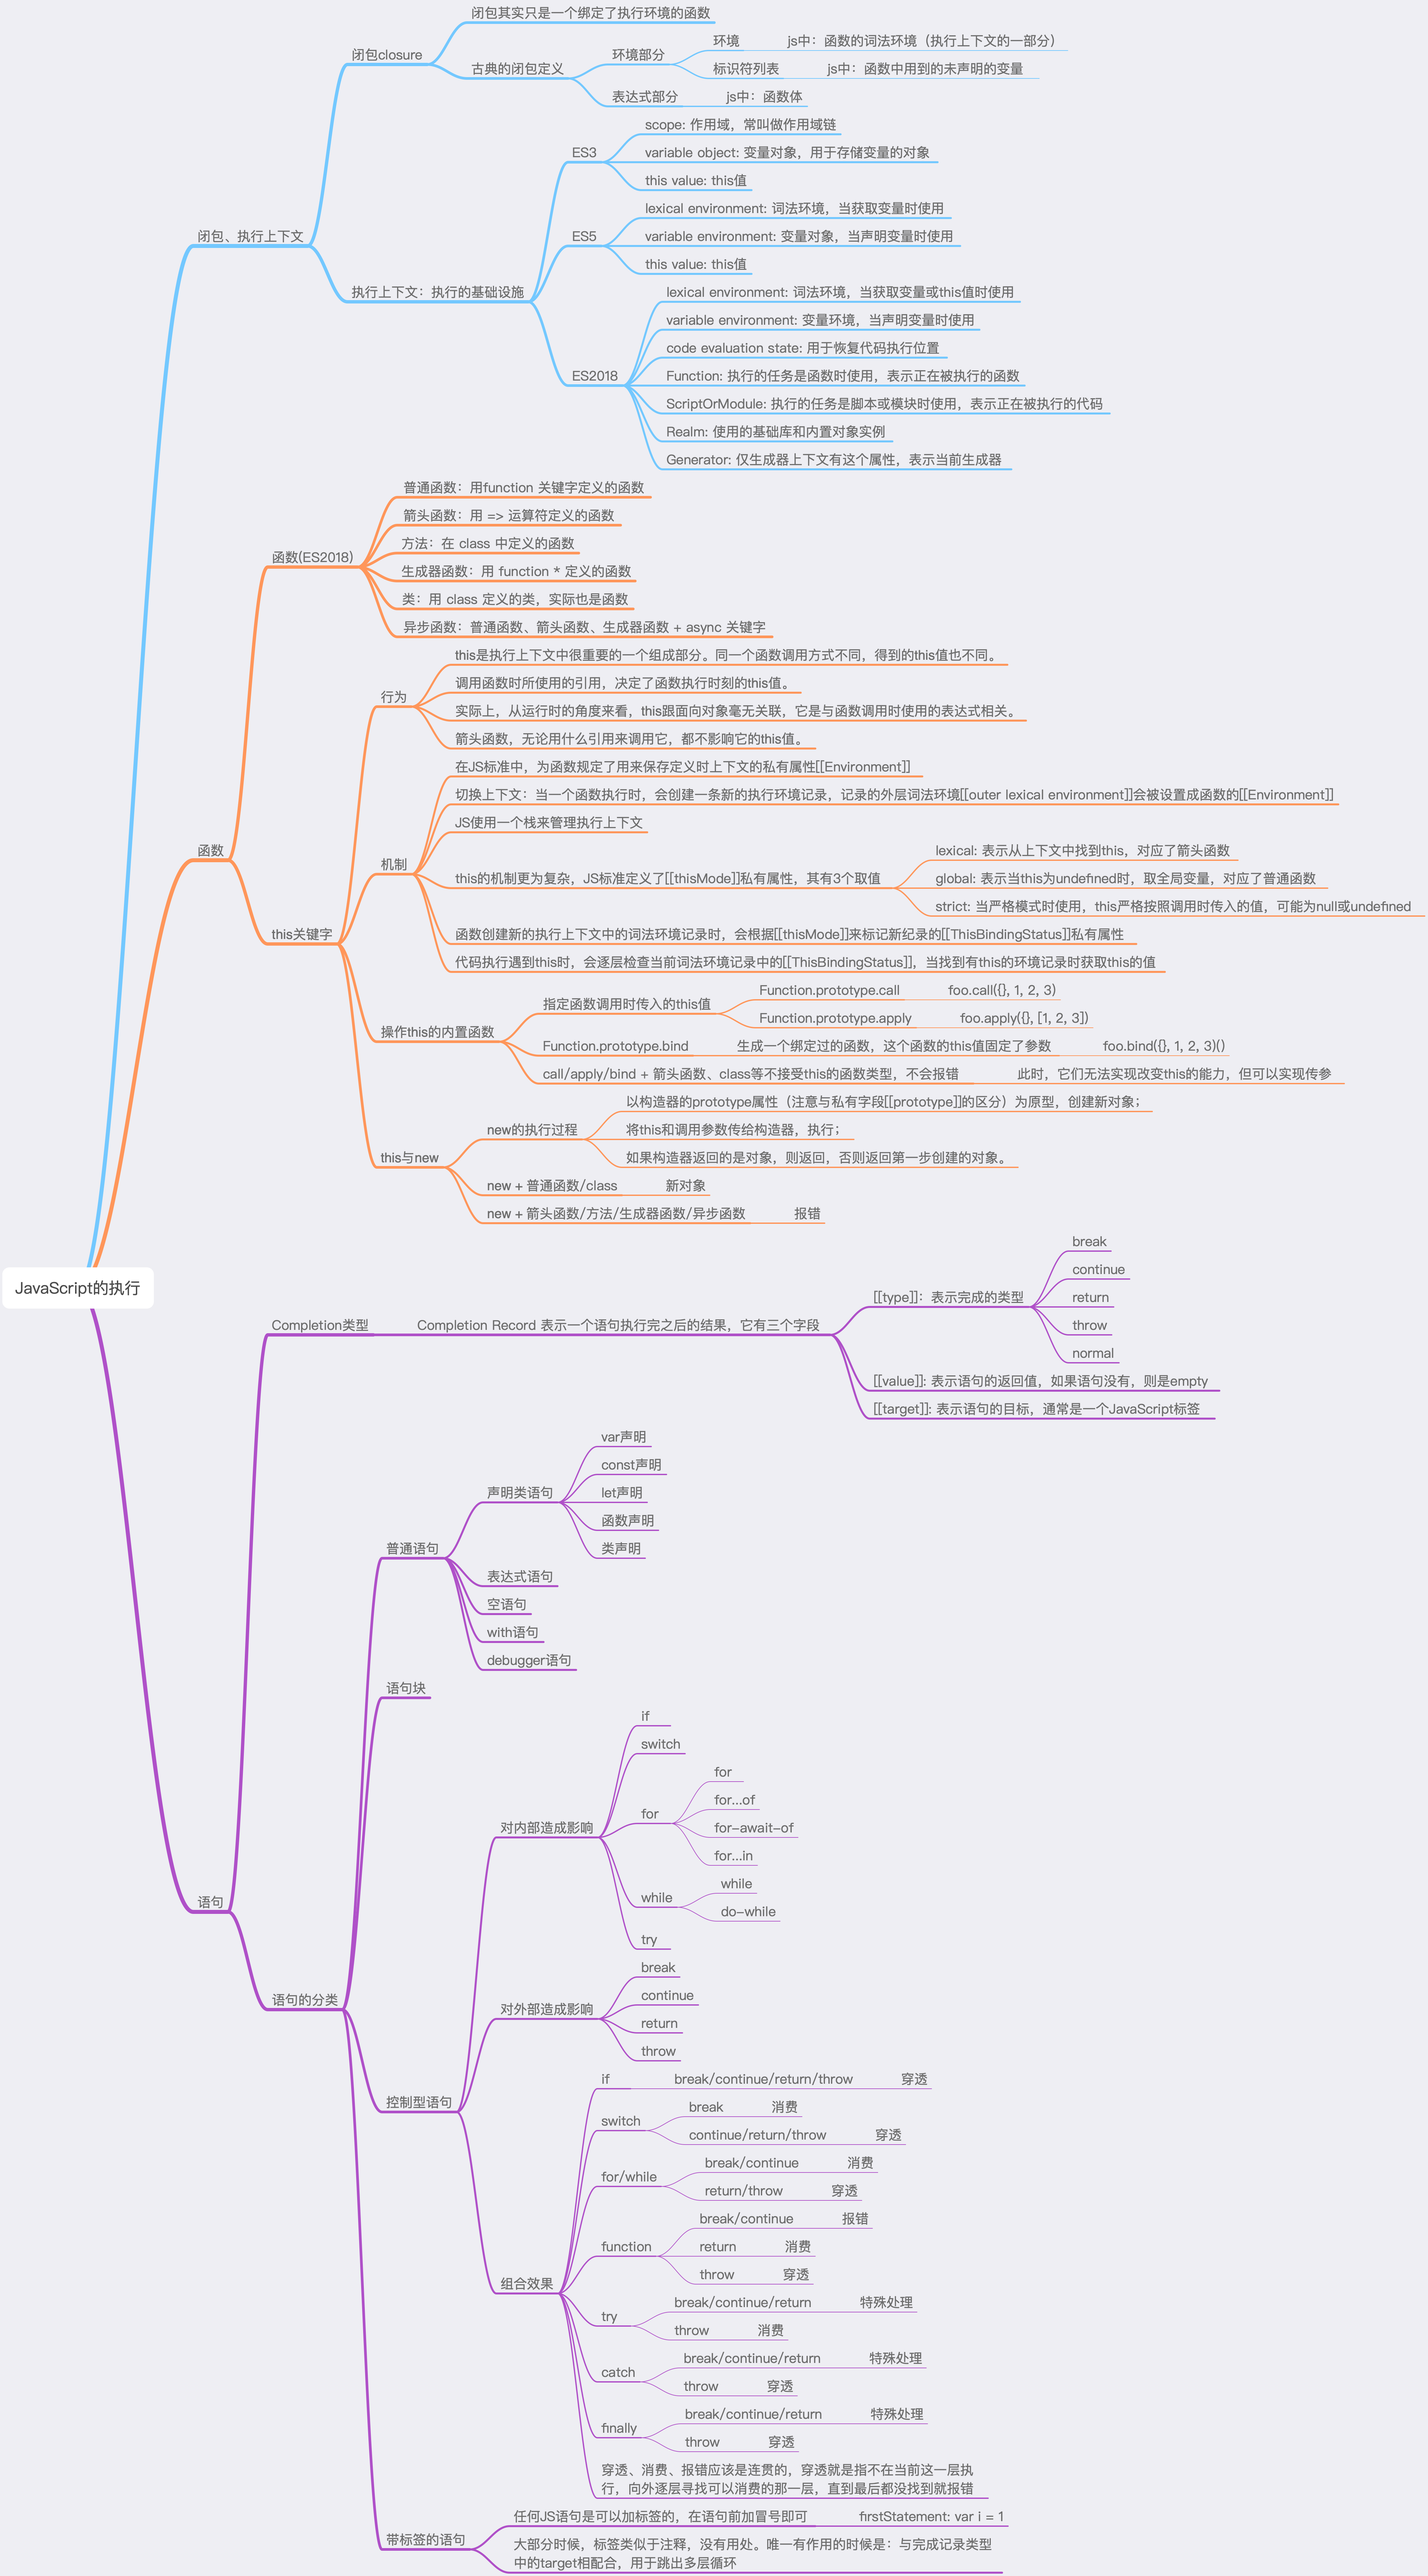
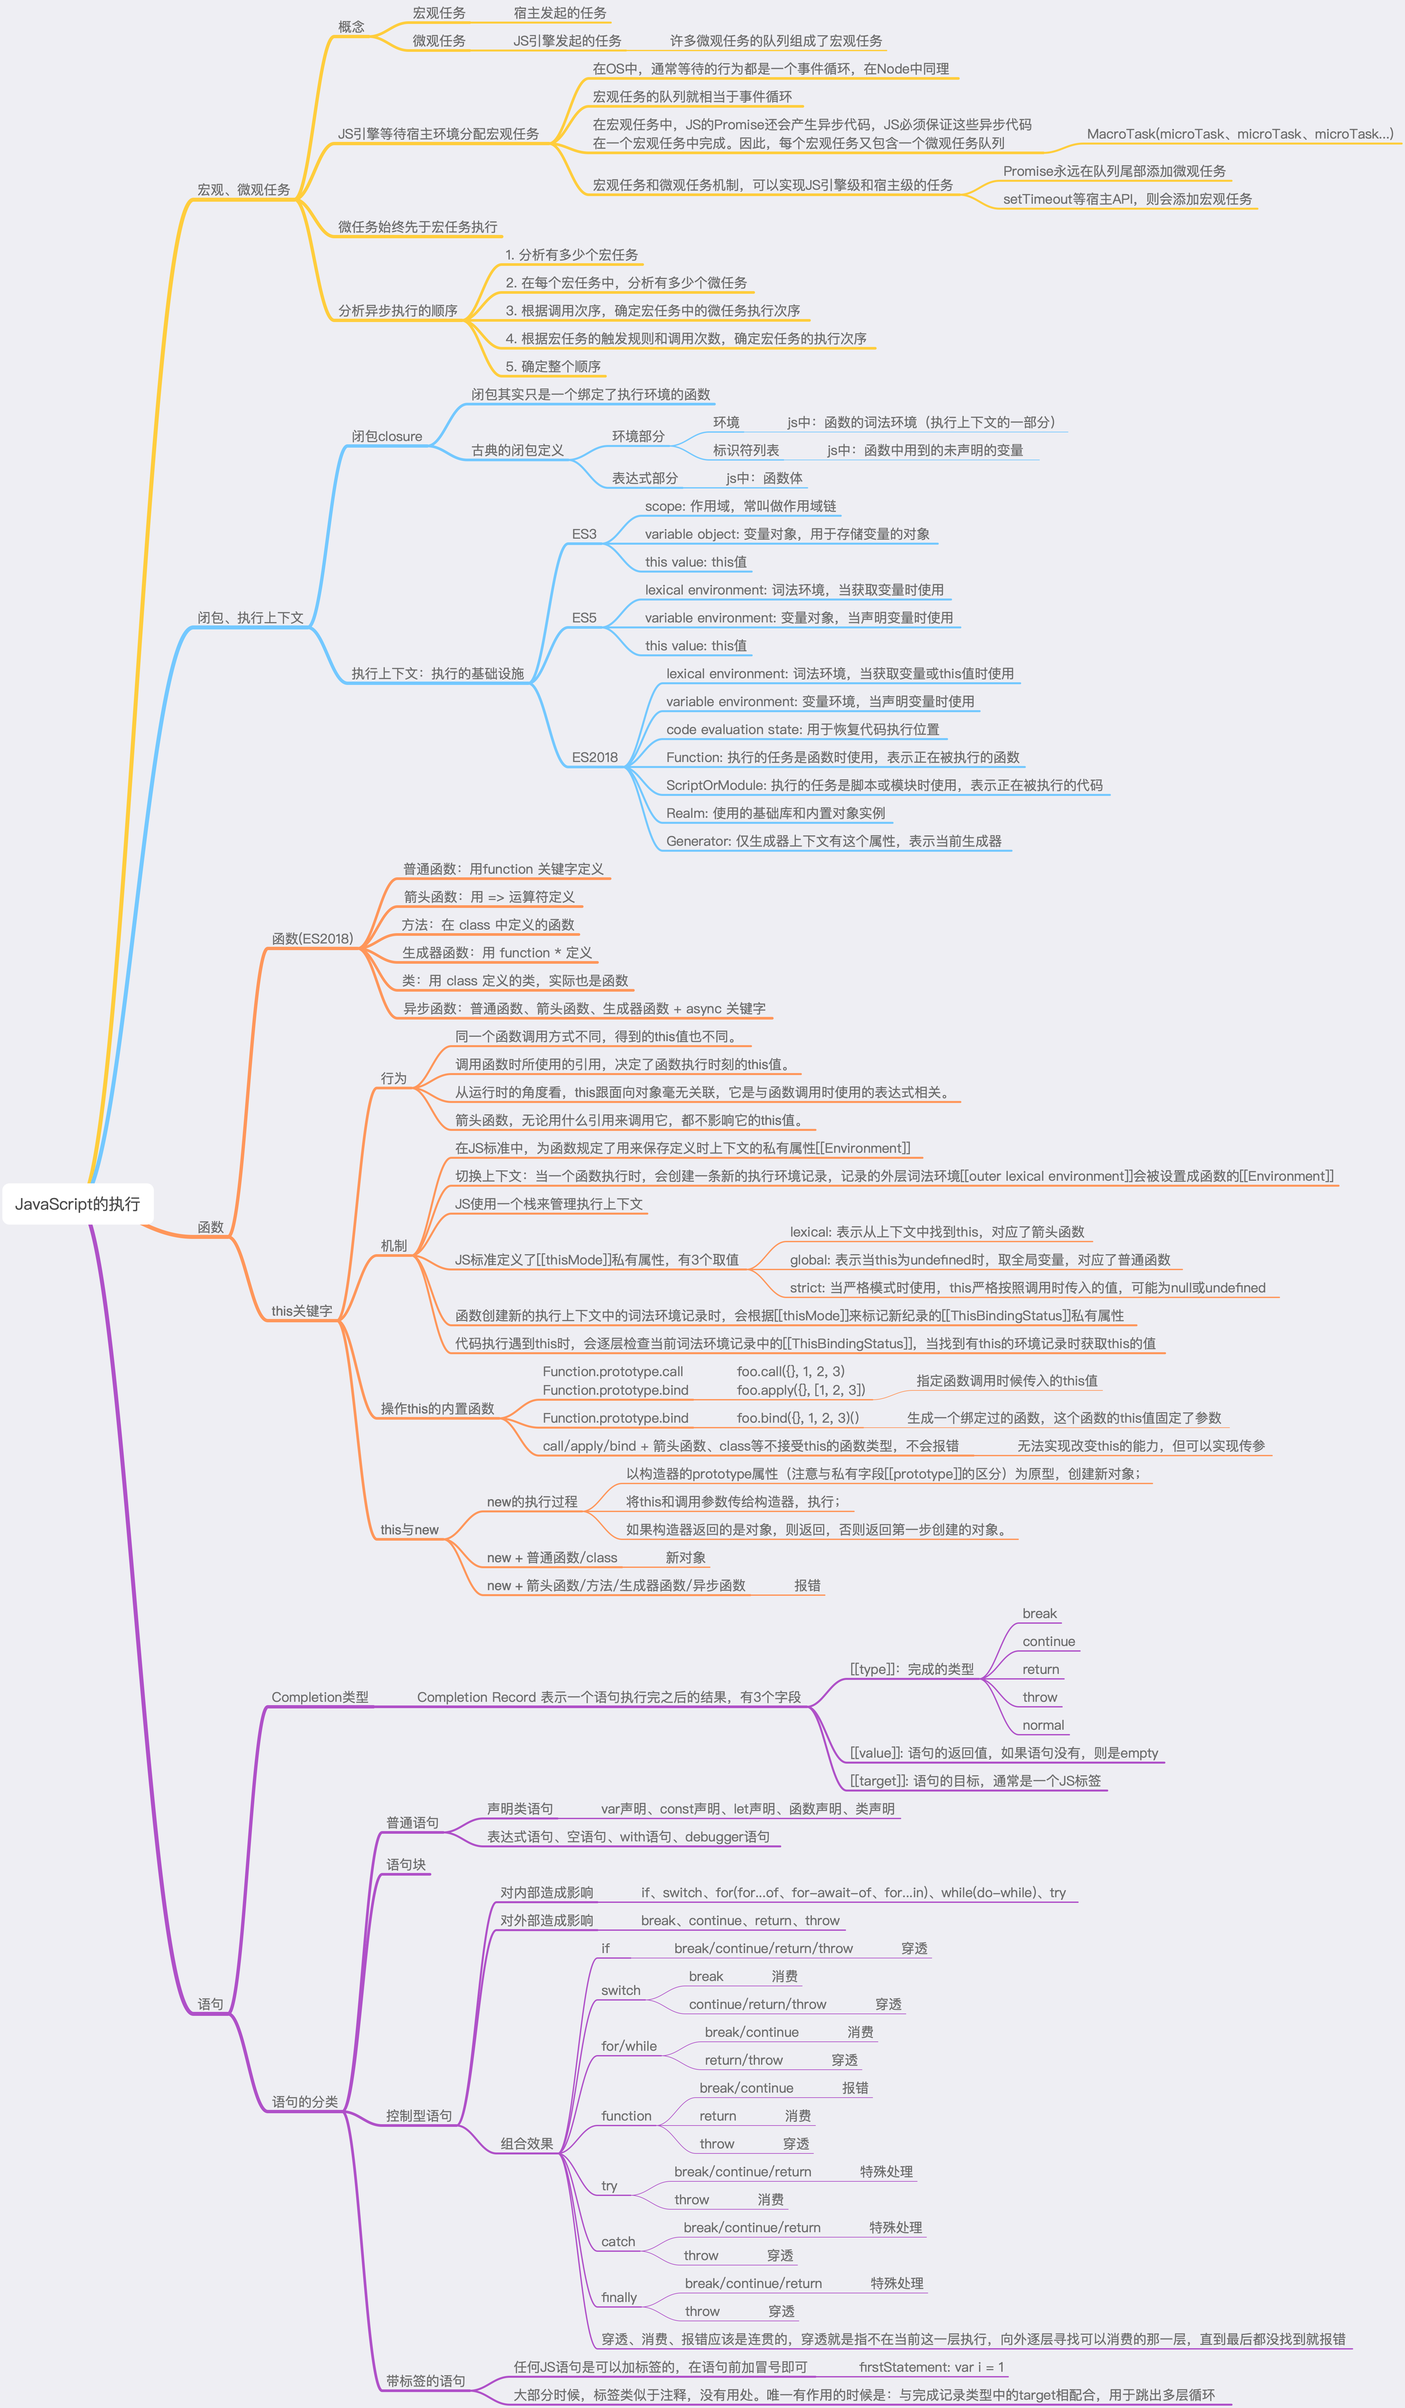
docs(js): update js执行, add 宏任务微任务;

diff --git a/JavaScript.md b/JavaScript.md
@@ -2,4 +2,9 @@
 
 ## JavaScript 执行
 
+- 宏观、微观任务
+- 闭包、执行上下文
+- 函数
+- 语句
+
 ![](/MindMap/JavaScript/JavaScript执行.png)

diff --git a/Notes/JavaScript/JavaScript执行.md b/Notes/JavaScript/JavaScript执行.md
@@ -1,0 +1,3 @@
+# JavaScript 执行
+
+![](/MindMap/JavaScript/JavaScript执行.png)
